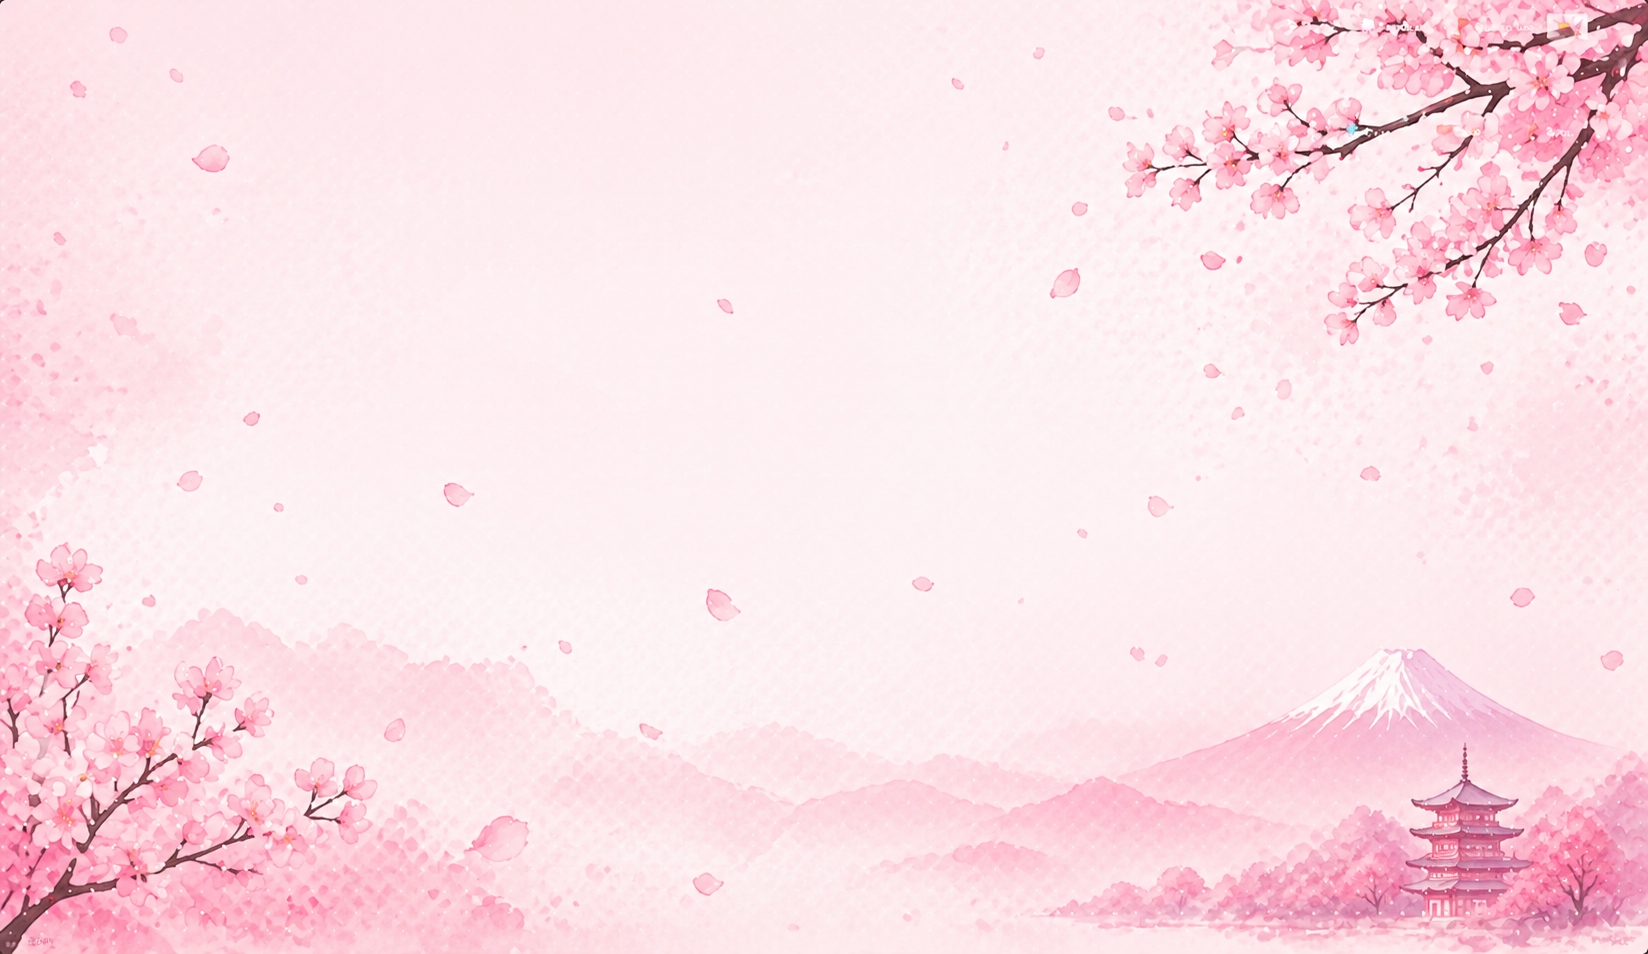
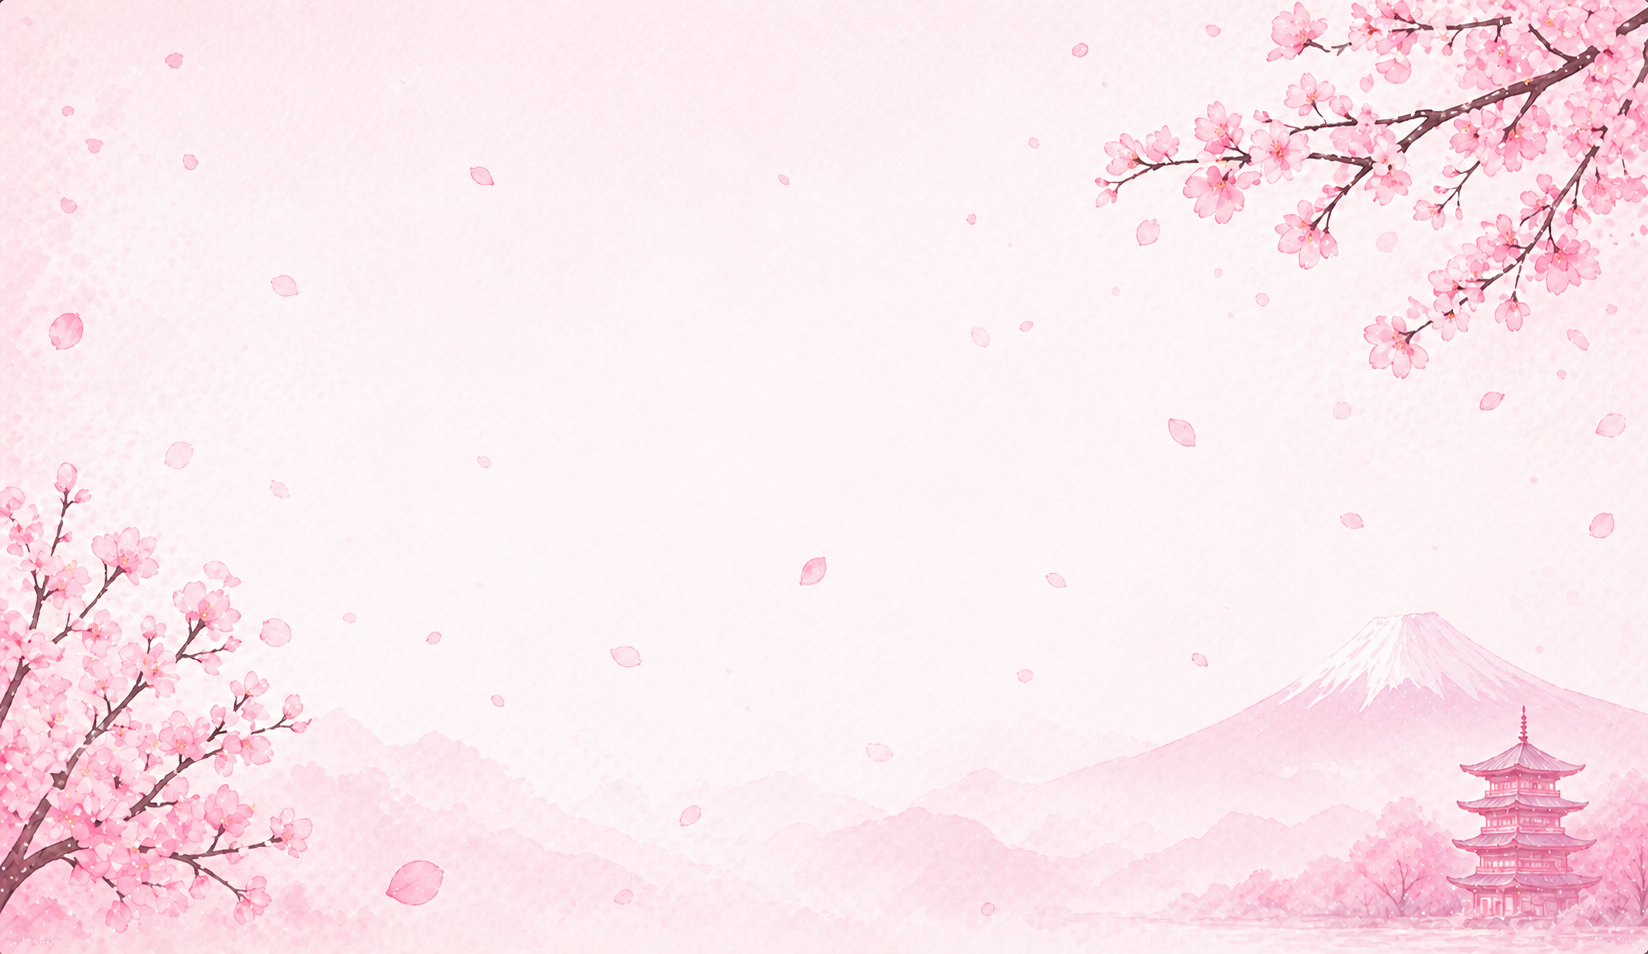
feat: polish sakura theme surfaces

diff --git a/components/theme/theme-selector.tsx b/components/theme/theme-selector.tsx
@@ -25,6 +25,21 @@ interface ThemeSelectorProps {
 	variant?: Theme
 }
 
+interface ThemeSelectorSurfaceStyles {
+	dialogContent: string
+	title: string
+	description: string
+	selectTrigger: string
+	selectContent: string
+	selectItem: string
+	changeText: string
+	aboutCard: string
+	aboutTitle: string
+	aboutText: string
+	cancelButton: string
+	saveButton: string
+}
+
 const THEME_BUTTON_STYLES: Record<Theme, string> = {
 	[Theme.SAKURA]: "text-rose-500 hover:text-rose-600 hover:bg-rose-100/70 transition-colors",
 	[Theme.CHRISTMAS]: "text-white/70 hover:text-white hover:bg-white/10",
@@ -34,6 +49,47 @@ const THEME_BUTTON_STYLES: Record<Theme, string> = {
 	[Theme.CLASH]: "text-[#ccc] hover:text-[#fbcc14] transition-colors",
 	[Theme.ANGKOR_PIXEL]: "text-[#f5e6d3] hover:text-[#ffd700] hover:bg-[#3d5a4a]/50 transition-colors",
 	[Theme.DEFAULT]: "text-slate-400 hover:text-blue-400 hover:bg-slate-800 transition-colors",
+}
+
+const DEFAULT_SURFACE_STYLES: ThemeSelectorSurfaceStyles = {
+	dialogContent: "bg-card border-border",
+	title: "text-foreground",
+	description: "text-muted-foreground",
+	selectTrigger: "w-full border",
+	selectContent: "border",
+	selectItem: "cursor-pointer",
+	changeText: "text-amber-500",
+	aboutCard: "p-4 bg-muted rounded-lg",
+	aboutTitle: "font-semibold mb-2 text-foreground",
+	aboutText: "text-sm text-muted-foreground",
+	cancelButton: "",
+	saveButton: "",
+}
+
+const SAKURA_SURFACE_STYLES: ThemeSelectorSurfaceStyles = {
+	dialogContent:
+		"bg-white/92 border border-rose-200 shadow-[0_28px_80px_rgba(244,114,182,0.22)] rounded-[1.5rem] backdrop-blur-xl",
+	title: "text-rose-950",
+	description: "text-rose-400",
+	selectTrigger:
+		"w-full border border-rose-200 bg-white/90 text-rose-500 rounded-xl shadow-[0_10px_30px_rgba(244,114,182,0.12)] focus:ring-rose-300 focus:ring-offset-0",
+	selectContent:
+		"border border-rose-200 bg-white/95 text-rose-500 rounded-xl shadow-[0_18px_50px_rgba(244,114,182,0.18)] backdrop-blur-xl",
+	selectItem: "cursor-pointer text-rose-500 focus:bg-rose-50 focus:text-rose-600 rounded-lg",
+	changeText: "text-rose-500",
+	aboutCard: "p-4 rounded-xl border border-rose-100 bg-rose-50/70 shadow-inner",
+	aboutTitle: "font-semibold mb-2 text-rose-700",
+	aboutText: "text-sm text-rose-400",
+	cancelButton: "border-rose-200 bg-white/85 text-rose-500 hover:bg-rose-50 hover:text-rose-600",
+	saveButton: "bg-white text-rose-500 border border-rose-200 hover:bg-rose-50 shadow-[0_10px_24px_rgba(244,114,182,0.12)]",
+}
+
+export const getThemeSelectorSurfaceStyles = (variant: Theme): ThemeSelectorSurfaceStyles => {
+	if (variant === Theme.SAKURA) {
+		return SAKURA_SURFACE_STYLES
+	}
+
+	return DEFAULT_SURFACE_STYLES
 }
 
 export const ThemeSelector = ({ variant = Theme.DEFAULT }: ThemeSelectorProps) => {
@@ -68,6 +124,7 @@ export const ThemeSelector = ({ variant = Theme.DEFAULT }: ThemeSelectorProps) =
 	}, [handleSaveToServer, handleThemeSelect, pendingTheme, selectedTheme])
 
 	const buttonClassName = THEME_BUTTON_STYLES[variant] ?? THEME_BUTTON_STYLES.default
+	const surfaceStyles = getThemeSelectorSurfaceStyles(variant)
 
 	return (
 		<>
@@ -84,10 +141,10 @@ export const ThemeSelector = ({ variant = Theme.DEFAULT }: ThemeSelectorProps) =
 			</Button>
 
 			<Dialog open={isOpen} onOpenChange={setIsOpen}>
-				<DialogContent className="sm:max-w-md">
+				<DialogContent className={cn("sm:max-w-md", surfaceStyles.dialogContent)}>
 					<DialogHeader>
-						<DialogTitle>Select Theme</DialogTitle>
-						<DialogDescription>
+						<DialogTitle className={surfaceStyles.title}>Select Theme</DialogTitle>
+						<DialogDescription className={surfaceStyles.description}>
 							Choose a theme. Click save to apply changes.
 						</DialogDescription>
 					</DialogHeader>
@@ -102,22 +159,19 @@ export const ThemeSelector = ({ variant = Theme.DEFAULT }: ThemeSelectorProps) =
 						<div className="space-y-6 py-4">
 							<Select value={pendingTheme} onValueChange={handlePendingChange} disabled={isSaving}>
 								<SelectTrigger
-									className="w-full border"
-									style={{ backgroundColor: '#1f2937', borderColor: '#374151', color: '#f3f4f6' }}
+									className={surfaceStyles.selectTrigger}
 									aria-label="Select theme"
 								>
 									<SelectValue placeholder="Select theme" />
 								</SelectTrigger>
 								<SelectContent
-									className="border"
-									style={{ backgroundColor: '#1f2937', borderColor: '#374151' }}
+									className={surfaceStyles.selectContent}
 								>
 									{themes.map((theme) => (
 										<SelectItem
 											key={theme.id}
 											value={theme.id}
-											className="cursor-pointer"
-											style={{ color: '#f3f4f6' }}
+											className={surfaceStyles.selectItem}
 										>
 											{theme.name}
 										</SelectItem>
@@ -126,14 +180,14 @@ export const ThemeSelector = ({ variant = Theme.DEFAULT }: ThemeSelectorProps) =
 							</Select>
 
 							{hasChanges && (
-								<p className="text-sm text-amber-500">
+								<p className={cn("text-sm", surfaceStyles.changeText)}>
 									Theme changed to "{themes.find(t => t.id === pendingTheme)?.name}". Click save to apply.
 								</p>
 							)}
 
-							<div className="p-4 bg-muted rounded-lg">
-								<h4 className="font-semibold mb-2">About Rithy</h4>
-								<p className="text-sm text-muted-foreground">
+							<div className={surfaceStyles.aboutCard}>
+								<h4 className={surfaceStyles.aboutTitle}>About Rithy</h4>
+								<p className={surfaceStyles.aboutText}>
 									ABA 003 791 262
 								</p>
 							</div>
@@ -143,6 +197,7 @@ export const ThemeSelector = ({ variant = Theme.DEFAULT }: ThemeSelectorProps) =
 									variant="outline"
 									onClick={() => setIsOpen(false)}
 									disabled={isSaving}
+									className={surfaceStyles.cancelButton}
 								>
 									Cancel
 								</Button>
@@ -150,6 +205,7 @@ export const ThemeSelector = ({ variant = Theme.DEFAULT }: ThemeSelectorProps) =
 									onClick={handleSave}
 									disabled={isSaving}
 									aria-busy={isSaving}
+									className={surfaceStyles.saveButton}
 								>
 									<Save className="w-4 h-4 mr-2" />
 									{isSaving ? "Saving..." : "Save Preference"}

diff --git a/components/theme/__tests__/theme-selector.test.ts b/components/theme/__tests__/theme-selector.test.ts
@@ -1,0 +1,15 @@
+import { describe, expect, it } from "vitest"
+import { Theme } from "@/enums"
+import { getThemeSelectorSurfaceStyles } from "@/components/theme/theme-selector"
+
+describe("theme selector sakura styles", () => {
+	it("returns light sakura surface classes", () => {
+		const styles = getThemeSelectorSurfaceStyles(Theme.SAKURA)
+
+		expect(styles.dialogContent).toContain("bg-white/92")
+		expect(styles.selectTrigger).toContain("bg-white/90")
+		expect(styles.selectContent).toContain("bg-white/95")
+		expect(styles.aboutCard).toContain("bg-rose-50/70")
+		expect(styles.saveButton).toContain("bg-white")
+	})
+})

diff --git a/components/tickets/theme-styles.ts b/components/tickets/theme-styles.ts
@@ -44,7 +44,8 @@ const sakuraStyles: TableThemeStyles = {
 	headerRow: "border-b border-rose-200/80",
 	headerCell: "text-rose-400 border-r border-rose-100/90 last:border-r-0",
 	body: "text-sm",
-	row: () => "sakura-table-row",
+	row: () =>
+		"sakura-table-row data-[state=selected]:bg-rose-50/95 data-[state=selected]:hover:bg-rose-50/95",
 	cell: () => "sakura-table-cell border-r border-rose-100/90 last:border-r-0 text-stone-700",
 	emptyCell: "h-24 text-center text-rose-400 text-sm",
 }

diff --git a/components/tickets/__tests__/theme-styles.test.ts b/components/tickets/__tests__/theme-styles.test.ts
@@ -9,6 +9,7 @@ describe("sakura ticket theme styles", () => {
 		expect(styles.container).toContain("sakura-table-shell")
 		expect(styles.header).toContain("sakura-table-header")
 		expect(styles.row(0)).toContain("sakura-table-row")
+		expect(styles.row(0)).toContain("data-[state=selected]:bg-rose-50/95")
 		expect(styles.cell(0)).toContain("sakura-table-cell")
 	})
 
